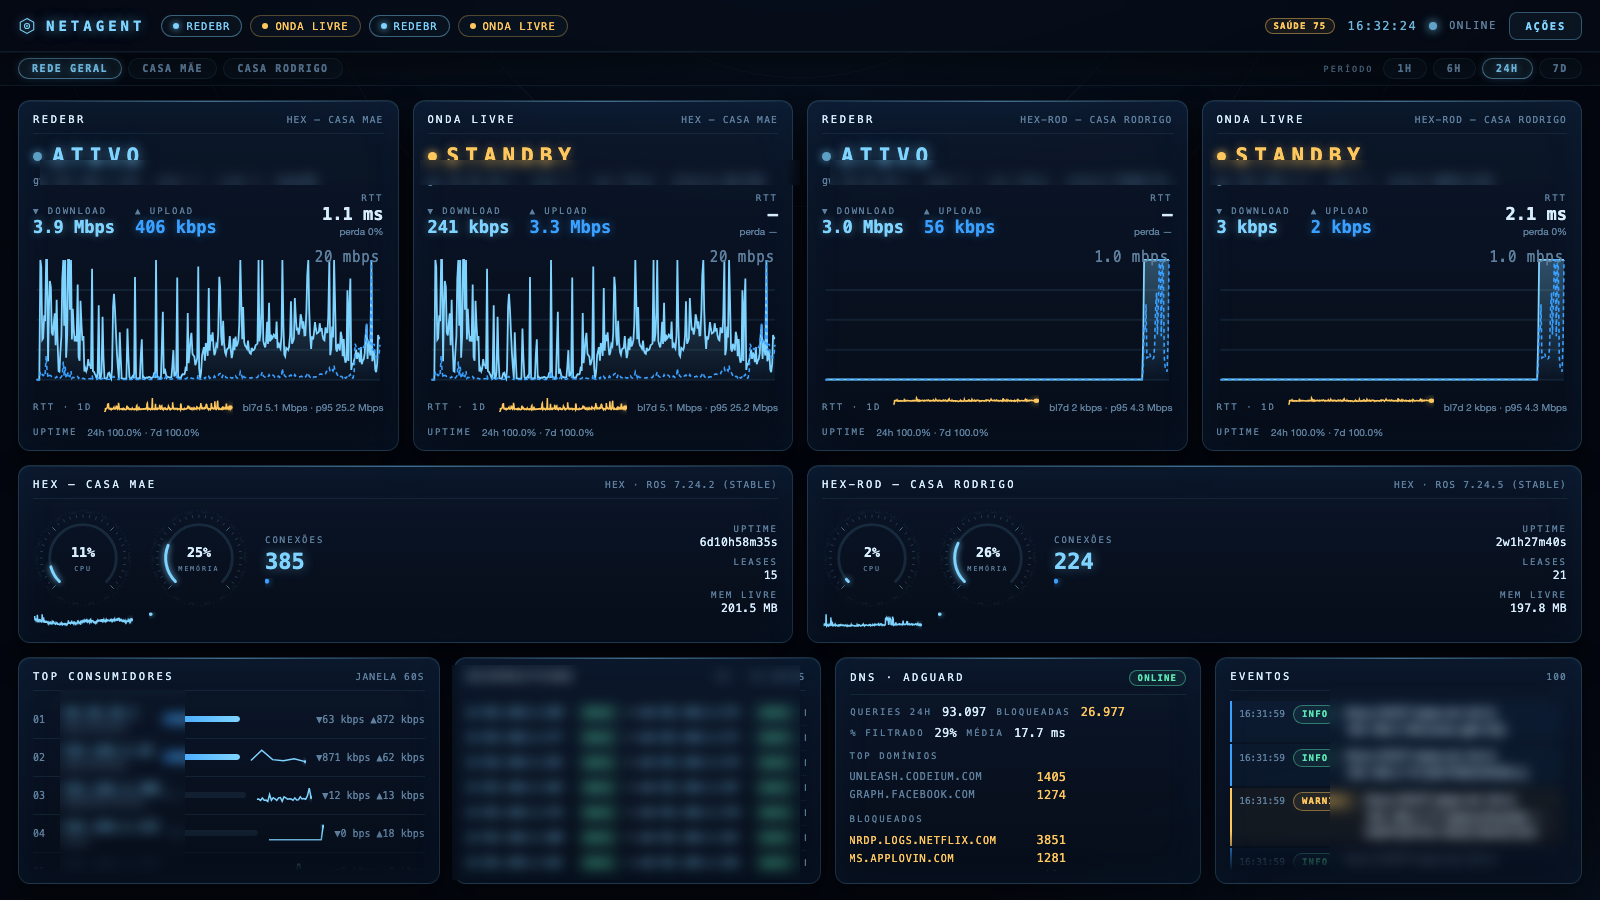
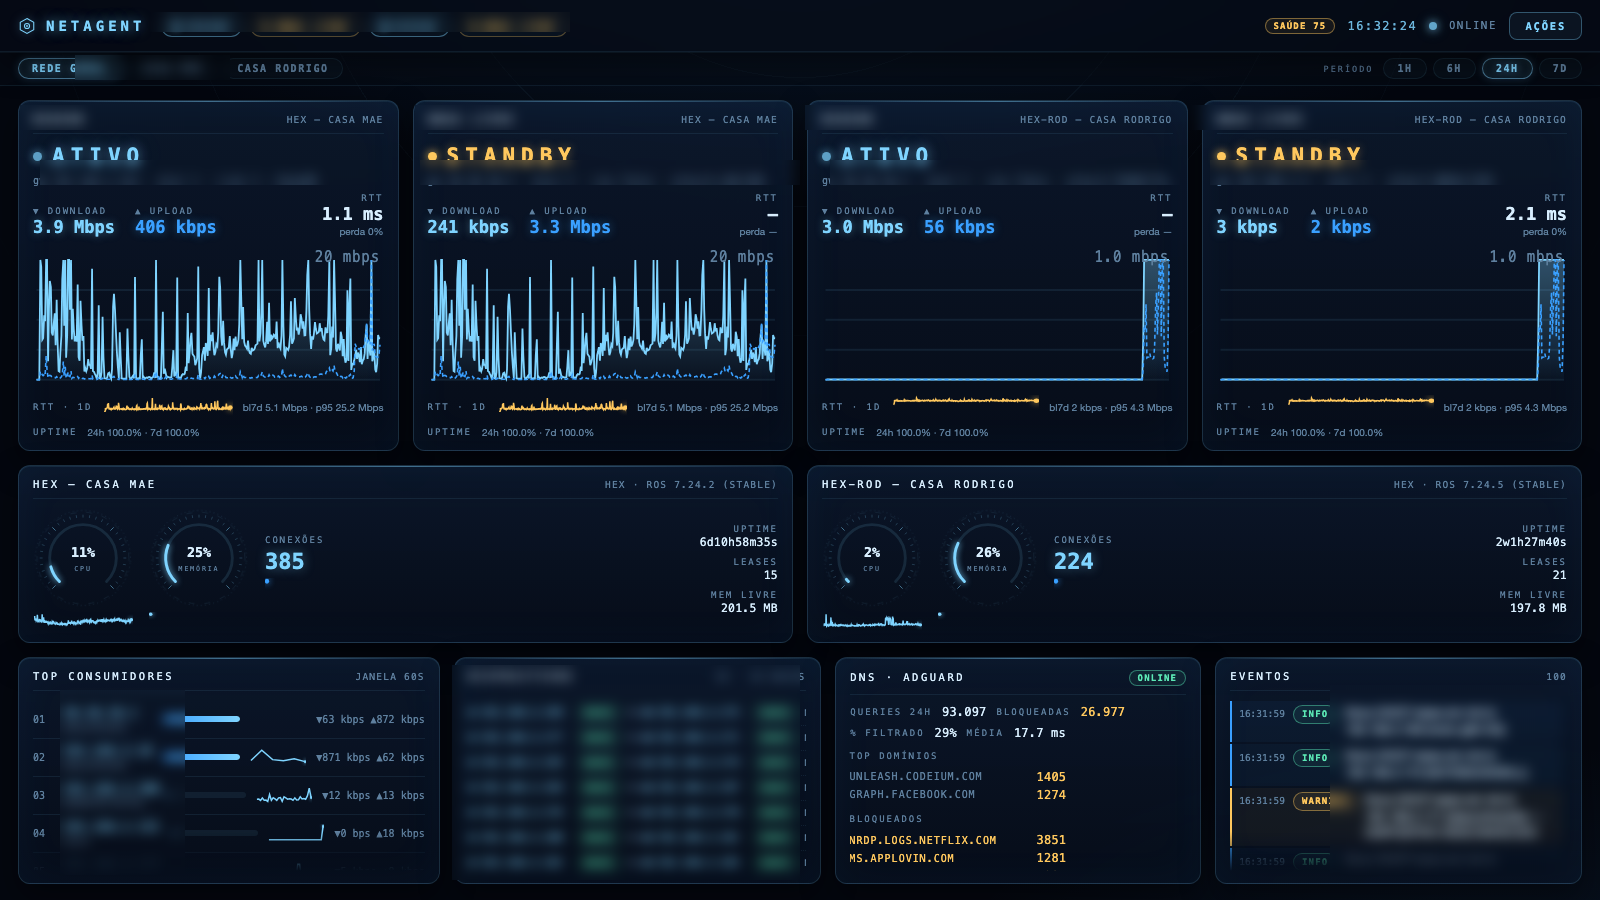
docs: sanitize README + blur identifying details in screenshots

diff --git a/README.md b/README.md
@@ -1,6 +1,6 @@
 # NetAgent
 
-**AI-assisted home network observability & control** — a real-time monitoring dashboard for a multi-site home network built on MikroTik routers, designed and implemented almost entirely through spec-driven collaboration with an AI coding agent.
+**AI-assisted network observability & control** — a real-time monitoring dashboard for a small multi-site network built on MikroTik routers, designed and implemented almost entirely through spec-driven collaboration with an AI coding agent.
 
 ![Overview](docs/screenshots/geral.png)
 
@@ -8,21 +8,21 @@
 
 ## Why this exists
 
-Two houses, two failover WAN links each, fiber between them, dozens of devices — and the classic home-lab question: *"what is my network actually doing right now?"*
+A network with multiple WAN links, failover between them, and dozens of devices — and the classic question every network nerd asks: *"what is it actually doing right now?"*
 
 The goals:
 
-- **See everything live** — link states (active/standby/down), throughput, latency, router health, who's eating bandwidth
-- **Know the baseline** — what's normal for my network, so anomalies mean something
+- **See everything live** — link states (active/standby/down), throughput, latency, router health, who's consuming bandwidth
+- **Know the baseline** — what "normal" looks like, so anomalies mean something
 - **Act safely** — let automation propose (and eventually execute) bounded actions under supervision
-- **Look good doing it** — a JARVIS-style HUD that treats the home network like a spaceship bridge
+- **Look good doing it** — a JARVIS-style HUD that treats network ops like a spaceship bridge
 
 ## What it does
 
 ### Dashboard (React + SSE, zero polling on the UI)
 
-- **Per-site pages** — each house gets its own view; a global view shows everything
-- **Live link cards** — state, RTT, per-link bandwidth (learned which interface each route actually uses — including traffic tunneled through the inter-site fiber)
+- **Per-site pages** — each site gets its own view; a global view shows everything
+- **Live link cards** — state, RTT, per-link bandwidth (the system learns which interface each route actually uses — including traffic tunneled through an inter-site link)
 - **Health score** (0–100) per link, composed from RTT vs. baseline, loss, and state
 - **Heatmap** of bandwidth, 7 days × 24 hours
 - **Uptime** per link over 24h / 7d
@@ -33,9 +33,10 @@ The goals:
 
 ### Data plane
 
-- **RouterOS API (TLS)** — polling both routers: interfaces, routes (matched by comment convention), DHCP leases, connection tracking, `/ping` RTT
-- **IPFIX collector** — both routers export flows; the backend aggregates per-local-IP rates → top talkers + per-IP history
-- **Access Point integration** — the Tenda RX2 web UI was **reverse-engineered from its minified JS bundle**: discovered the real login flow (XHR header contract + session cookie with an RFC-invalid `:` in the name that most HTTP clients silently drop), the `stok`+`sign` handshake, AES-CBC-encrypted responses, and the actual module names (`onlineList`, `systemStatus`)
+- **RouterOS API (TLS)** — polling routers: interfaces, routes (matched by comment convention), DHCP leases, connection tracking, `/ping` RTT
+- **IPFIX collector** — routers export flows; the backend aggregates per-local-IP rates → top talkers + per-IP history
+- **Access Point integration** — the AP's web UI was **reverse-engineered from its minified JS bundle**: discovered the real login flow (XHR header contract + a session cookie with an RFC-invalid `:` in the name that most HTTP clients silently drop), the `stok`+`sign` handshake, AES-CBC-encrypted responses, and the actual module names (`onlineList`, `wifiApScan`)
+- **Wi-Fi neighborhood scan** — nearby SSIDs aggregated by channel → congestion view + best-channel suggestion
 - **AdGuard Home** — DNS stats: queries, % blocked, top domains
 - **Scheduled speedtests** — measured capacity becomes the denominator for saturation %
 
@@ -51,7 +52,7 @@ The goals:
 - Every action: diff preview → approval → execute → verify → rollback + notification
 - Global kill switch for read-only mode
 
-![Casa Rodrigo](docs/screenshots/casa-rodrigo.png)
+![Site view](docs/screenshots/casa-rodrigo.png)
 
 ## How it was built (the AI part)
 
@@ -59,7 +60,7 @@ This project is itself an experiment: **can a spec-driven AI agent design, deplo
 
 - **Spec first** — architecture was written down and approved before any infrastructure was touched (LXC on Proxmox, FastAPI + SQLite + React, RouterOS API-SSL)
 - **Subagents for parallel work** — the frontend redesign, alert engine, and topology map were each delegated to independent agent tasks with precise specs
-- **Real debugging, not magic** — the hard problems were human-shaped: a `1ms179us` RTT format breaking the parser, an OOM-kill restart loop melting a Docker host, a Tenda login that 302-redirected instead of answering JSON until the correct XHR headers were discovered
+- **Real debugging, not magic** — the hard problems were human-shaped: a `1ms179us` RTT format breaking the parser, an OOM-kill restart loop melting a container host, an AP login that 302-redirected instead of answering JSON until the correct XHR headers were discovered
 - **Reverse engineering as a tool** — the access point's API was recovered by reading its minified JavaScript bundle, not from documentation
 
 ## Stack
@@ -74,7 +75,7 @@ This project is itself an experiment: **can a spec-driven AI agent design, deplo
 
 ```
 backend/app/     FastAPI backend — poller, ipfix, alerts, actions,
-                 wifi (Tenda), adguard, db, stream (SSE)
+                 wifi (AP client), adguard, db, stream (SSE)
 backend/tests/   unit tests
 frontend/src/    React SPA — HUD cards, topology map, charts
 docs/screenshots/
@@ -82,7 +83,7 @@ docs/screenshots/
 
 ## Privacy note
 
-Sanitized for public release: IPs, credentials, hostnames, and domain names were replaced with placeholders or blurred in screenshots. Deployment-specific values live in `.env` (never committed).
+Sanitized for public release: IPs, credentials, device names, and identifying details were replaced with placeholders or blurred in screenshots. Deployment-specific values live in `.env` (never committed).
 
 ## Status
 
